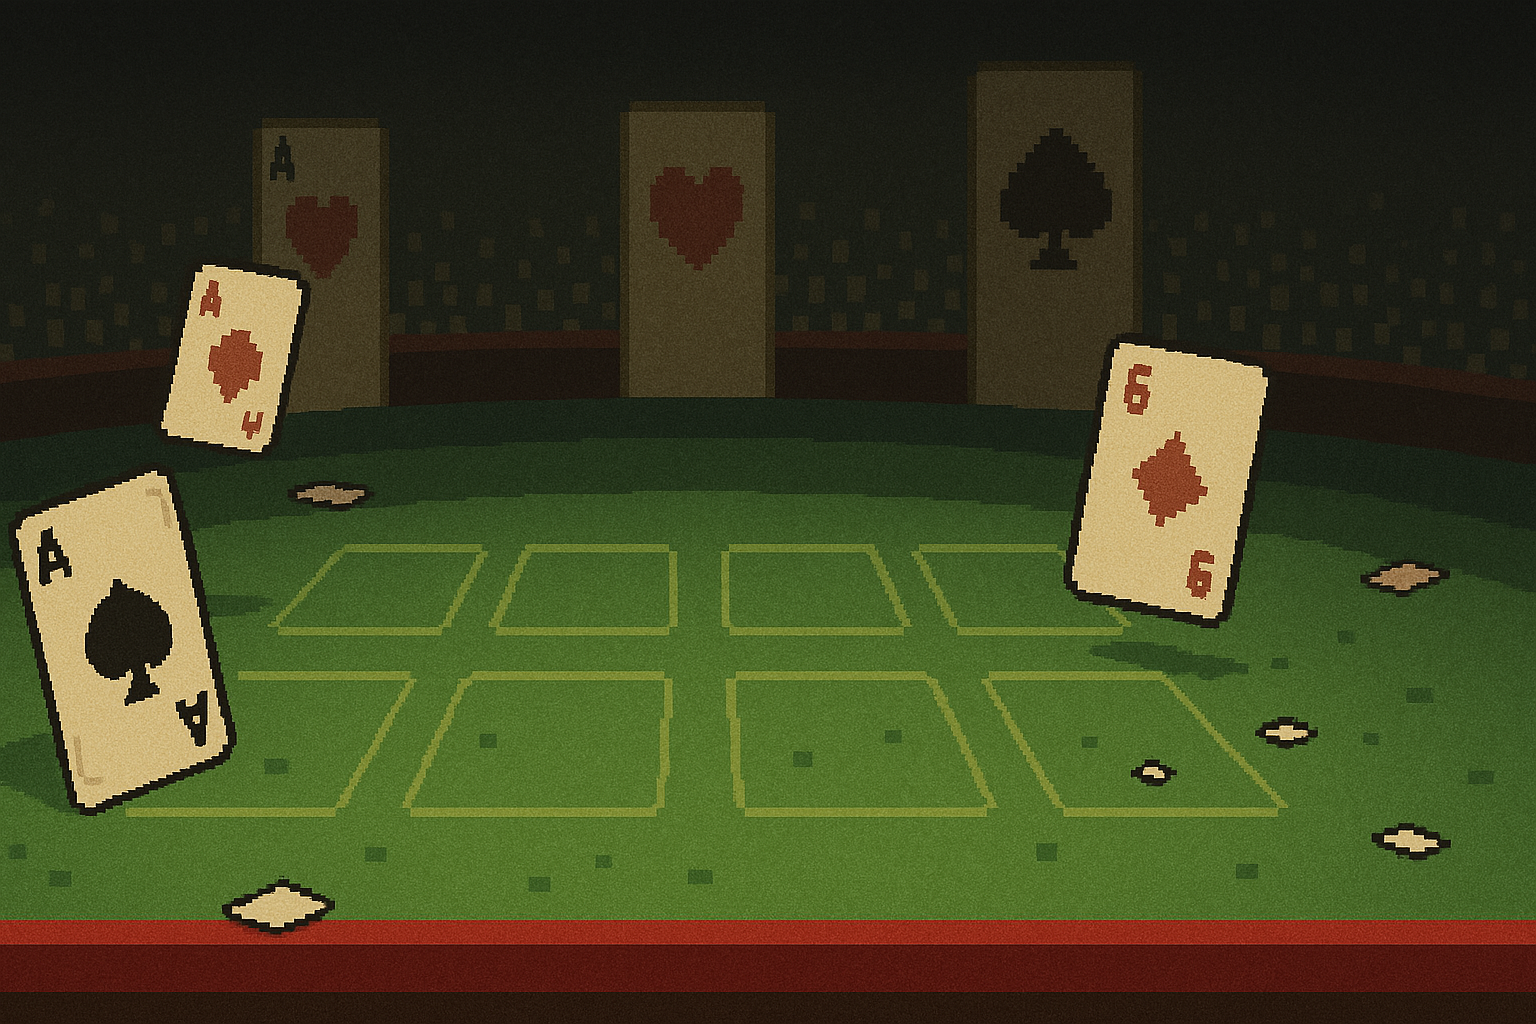
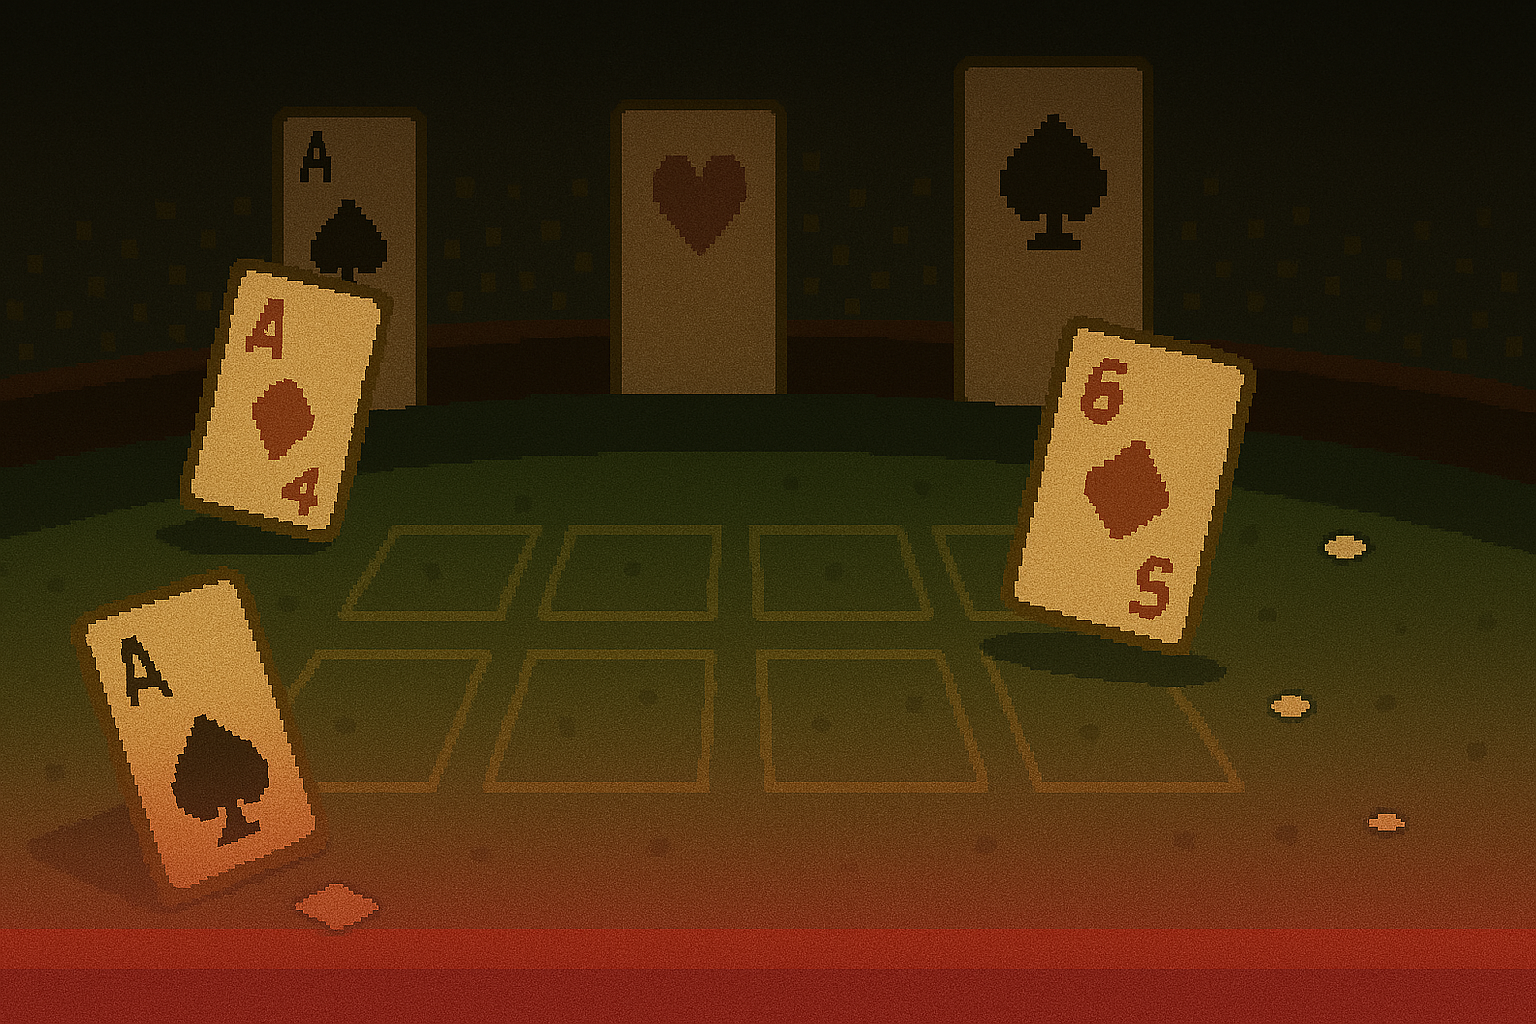
Tela RainhaCopas + TelaCoelho

diff --git a/Classes/RainhaCopas.py b/Classes/RainhaCopas.py
@@ -1,18 +1,57 @@
 from constantes import *
+from math import cos
 import pygame
 
 class RainhaCopas():
 
     def __init__(self):
-        self.image = None
-        self.pos_x = LARGURA_TELA - 100
-        self.pos_y = ALTURA_TELA - 100
+        self.image = LISTA_INVOCAR_CORACAO[2]
+        self.t0_movimento = pygame.time.get_ticks()
+        self.pos_x_inicial = LARGURA_TELA - 200
+        self.pos_x = self.pos_x_inicial
+        self.pos_y_inicial = ALTURA_TELA - 239
+        self.pos_y = self.pos_y_inicial
+        self.ataque_coracao = "Sem ataque"
+        self.t0_ataque = 0
+        self.vida = 50
+        self.dano = 1
     
     def invocar_coracoes(self):
-        pass
 
-    def invocar_cartinhas(self):
-        pass
+        if (pygame.time.get_ticks() - self.t0_ataque) %  3500 <= 250:
+            self.image = LISTA_INVOCAR_CORACAO[2]
+        elif (pygame.time.get_ticks() - self.t0_ataque) %  3500 <= 500:
+            self.image = LISTA_INVOCAR_CORACAO[2]
+        elif (pygame.time.get_ticks() - self.t0_ataque) %  3500 <= 750:
+            self.image = LISTA_INVOCAR_CORACAO[2]
+        elif (pygame.time.get_ticks() - self.t0_ataque) %  3500 <= 1000:
+            self.image = LISTA_INVOCAR_CORACAO[3]
+        elif (pygame.time.get_ticks() - self.t0_ataque) %  3500 <= 1250:
+            self.image = LISTA_INVOCAR_CORACAO[4]
+        elif (pygame.time.get_ticks() - self.t0_ataque) %  3500 <= 1500:
+            self.image = LISTA_INVOCAR_CORACAO[5]
+        elif (pygame.time.get_ticks() - self.t0_ataque) %  3500 <= 1750:
+            self.image = LISTA_INVOCAR_CORACAO[6]
+        elif (pygame.time.get_ticks() - self.t0_ataque) %  3500 <= 2000:
+            self.image = LISTA_INVOCAR_CORACAO[5]
+        elif (pygame.time.get_ticks() - self.t0_ataque) %  3500 <= 2250:
+            self.image = LISTA_INVOCAR_CORACAO[4]
+        elif (pygame.time.get_ticks() - self.t0_ataque) %  3500 <= 2500:
+            self.image = LISTA_INVOCAR_CORACAO[3]
+        elif (pygame.time.get_ticks() - self.t0_ataque) %  3500 <= 2750:
+            self.image = LISTA_INVOCAR_CORACAO[2]
+        elif (pygame.time.get_ticks() - self.t0_ataque) %  3500 <= 3000:
+            self.image = LISTA_INVOCAR_CORACAO[2]
+        elif (pygame.time.get_ticks() - self.t0_ataque) %  3500 <= 3250:
+            self.image = LISTA_INVOCAR_CORACAO[2] 
+        else:
+            self.vivo = "Sem ataque"
+            self.image = LISTA_INVOCAR_CORACAO[2]
+    
+    def movimentar(self):
+        # Figura de Lissajous:
+        self.pos_x = self.pos_x_inicial + 50*cos(1*(pygame.time.get_ticks()-self.t0_movimento)/1000)
+        self.pos_y = self.pos_y_inicial + 3*cos(2*(pygame.time.get_ticks()-self.t0_movimento)/1000)
 
     def animar_morte(self):
         pass

diff --git a/Telas/TelaRainhaCopas.py b/Telas/TelaRainhaCopas.py
@@ -1,5 +1,6 @@
 from Classes.Cartinha import Cartinha
 from Classes.Coracao import Coracao
+from Classes.RainhaCopas import RainhaCopas
 from constantes import *
 from random import randint
 
@@ -8,6 +9,7 @@ class TelaRainhaCopas():
     def __init__(self):
         self.lista_cartinhas = list()
         self.lista_coracoes = list()
+        self.rainha_copas = RainhaCopas()
         self.tela_atual = "TelaRainhaCopas"
         self.t0 = pygame.time.get_ticks()
         self.delta_t_acel = 5000
@@ -33,7 +35,7 @@ class TelaRainhaCopas():
             for _ in range(3):
                 cartinha = Cartinha()
                 cartinha.pos_x = POS_X + randint(-150, 50)
-                cartinha.pos_y = POS_Y + randint(-300, 50)
+                cartinha.pos_y = POS_Y + randint(-200, 50)
                 cartinha.velocidade_x = randint(-120, -10)
                 cartinha.velocidade_y = randint(-50, -30)
                 cartinha.movimento = "acelerando"
@@ -56,11 +58,13 @@ class TelaRainhaCopas():
 
     def gera_coracoes(self):
         if (pygame.time.get_ticks() - self.t0 - 30000) // self.delta_t_coracao > 0:
-            for _ in range(7):
+            for _ in range(12):
                 coracao = Coracao()
-                coracao.pos_y = randint(-200, -30)
+                coracao.pos_y = randint(-700, -400)
                 coracao.pos_x = randint(50, LARGURA_TELA - 100)
                 self.lista_coracoes.append(coracao)
+                self.rainha_copas.ataque_coracao = "Atacando"
+                self.rainha_copas.t0_ataque = pygame.time.get_ticks()
 
             self.delta_t_coracao += 4000
 
@@ -70,10 +74,12 @@ class TelaRainhaCopas():
         window.blit(IMAGEM_FUNDO_RAINHA_COPAS, (0, 0))
         
         for cartinha in self.lista_cartinhas:
-            window.blit(cartinha.image, (cartinha.pos_x, cartinha.pos_y))
+            cartinha.desenhar(window)
         
         for coracao in self.lista_coracoes:
-            window.blit(coracao.image, (coracao.pos_x, coracao.pos_y))
+            coracao.desenhar(window)
+        
+        self.rainha_copas.desenhar(window)
 
         pygame.display.flip()
     
@@ -121,6 +127,11 @@ class TelaRainhaCopas():
                 self.lista_cartinhas[1].t0_morte = pygame.time.get_ticks()
 
                 self.delta_t_remove += 10000
+        
+        if self.rainha_copas.ataque_coracao == "Atacando":
+            self.rainha_copas.invocar_coracoes()
+        
+        self.rainha_copas.movimentar()
 
         return True
     

diff --git a/Classes/Cartinha.py b/Classes/Cartinha.py
@@ -6,7 +6,6 @@ class Cartinha():
     
     def __init__(self):
         self.t0 = pygame.time.get_ticks()
-        self.imagens = LISTA_IMAGENS_CARTINHA
         self.image = LISTA_IMAGENS_CARTINHA[0]
         self.masks = MASKS_CARTINHA
         self.movimento = None
@@ -46,14 +45,14 @@ class Cartinha():
             self.pos_x = LARGURA_TELA - 65
             self.velocidade_x = 0
 
-        if 10 < self.pos_y < ALTURA_TELA - 64:
+        if 10 < self.pos_y < ALTURA_TELA - 100:
             self.pos_y += self.velocidade_y * self.delta_t
             self.velocidade_y += self.aceleracao_y * self.delta_t
         elif self.pos_y <= 10:
             self.pos_y = 11
             self.velocidade_y = 0
-        elif self.pos_y >= ALTURA_TELA - 64:
-            self.pos_y = ALTURA_TELA - 65
+        elif self.pos_y >= ALTURA_TELA - 100:
+            self.pos_y = ALTURA_TELA - 101
             self.velocidade_y = 0
 
         self.t0 = self.t1
@@ -82,13 +81,13 @@ class Cartinha():
             self.pos_x = LARGURA_TELA - 65
             self.velocidade_x = 0
 
-        if 10 < self.pos_y < ALTURA_TELA - 64:
+        if 10 < self.pos_y < ALTURA_TELA - 100:
             self.pos_y += self.velocidade_y * self.delta_t
         elif self.pos_y <= 10:
             self.pos_y = 11
             self.velocidade_y = 0
-        elif self.pos_y >= ALTURA_TELA - 64:
-            self.pos_y = ALTURA_TELA - 65
+        elif self.pos_y >= ALTURA_TELA - 100:
+            self.pos_y = ALTURA_TELA - 101
             self.velocidade_y = 0
 
         self.t0 = self.t1
@@ -124,11 +123,11 @@ class Cartinha():
             self.image = LISTA_EXPLOSAO_CARTINHA[4]
             self.image = pygame.transform.rotate(self.image, self.angulo)
         elif (pygame.time.get_ticks() - self.t0_morte) %  2800 <= 2400:
-            self.image = LISTA_EXPLOSAO_CARTINHA[5]
+            self.image = LISTA_EXPLOSAO_CARTINHA[5] 
             self.image = pygame.transform.rotate(self.image, self.angulo)
         else:
             self.vivo = "Morto"
     
 
     def desenhar(self, window):
-        window.blit(self.image, (self.pos_x, self.pos_y))
+        window.blit(self.image, (self.pos_x, self.pos_y))  

diff --git a/constantes.py b/constantes.py
@@ -38,7 +38,32 @@ LISTA_EXPLOSAO_CARTINHA  = [
     pygame.transform.scale(pygame.image.load(os.path.join("Assets\Imagens","Explosao_Cartinha_06.png")), (32, 48)),
 ]
 
-IMAGEM_FUNDO_RAINHA_COPAS = pygame.transform.scale(pygame.image.load(os.path.join("Assets\Imagens","Fundo_Rainha_Copas.png")), (LARGURA_TELA, ALTURA_TELA))
+IMAGEM_FUNDO_RAINHA_COPAS = pygame.transform.scale(pygame.image.load(os.path.join("Assets\Imagens","Fundo_Rainha_Copas_4.png")), (LARGURA_TELA, ALTURA_TELA))
+
+IMAGEM_FUNDO_COELHO = pygame.transform.scale(pygame.image.load(os.path.join("Assets\Imagens","Fundo_Coelho.png")), (LARGURA_TELA, ALTURA_TELA))
+
+RAINHA_COPAS = pygame.transform.scale(pygame.image.load(os.path.join("Assets\Imagens","Rainha_Copas.png")), (128, 192))
+
+LISTA_INVOCAR_CORACAO  = [
+    pygame.transform.scale(pygame.image.load(os.path.join("Assets\Imagens","Invocar_Coracao_01.png")), (128, 192)),
+    pygame.transform.scale(pygame.image.load(os.path.join("Assets\Imagens","Invocar_Coracao_02.png")), (128, 192)),
+    pygame.transform.scale(pygame.image.load(os.path.join("Assets\Imagens","Invocar_Coracao_03.png")), (128, 192)),
+    pygame.transform.scale(pygame.image.load(os.path.join("Assets\Imagens","Invocar_Coracao_04.png")), (128, 192)),
+    pygame.transform.scale(pygame.image.load(os.path.join("Assets\Imagens","Invocar_Coracao_05.png")), (128, 192)),
+    pygame.transform.scale(pygame.image.load(os.path.join("Assets\Imagens","Invocar_Coracao_06.png")), (128, 192)),
+    pygame.transform.scale(pygame.image.load(os.path.join("Assets\Imagens","Invocar_Coracao_07.png")), (128, 192)),
+]
+
+LISTA_COELHO_CORRENDO  = [
+    pygame.transform.scale(pygame.image.load(os.path.join("Assets\Imagens","Coelho_Correndo_02.png")), (128, 128)),
+    pygame.transform.scale(pygame.image.load(os.path.join("Assets\Imagens","Coelho_Correndo_03.png")), (128, 128)),
+]
+
+LISTA_COELHO_PULANDO  = [
+    pygame.transform.scale(pygame.image.load(os.path.join("Assets\Imagens","Coelho_Pulando_01.png")), (128, 128)),
+    pygame.transform.scale(pygame.image.load(os.path.join("Assets\Imagens","Coelho_Pulando_02.png")), (128, 128)),
+]
+
 
 POS_X = 700
 POS_Y = 500

diff --git a/Classes/Coelho.py b/Classes/Coelho.py
@@ -1,0 +1,60 @@
+from constantes import *
+from math import sqrt, atan, degrees
+
+class Coelho():
+    
+    def __init__(self):
+        self.pos_x = 20
+        self.pos_y_inicial = self.pos_y = ALTURA_TELA - 235
+        self.t0 = self.t0_inicio = self.t0_pulo = pygame.time.get_ticks()
+        self.pulo = False
+        self.velocidade_x = 70
+        self.velocidade_y = -50
+        self.aceleracao_y = 30
+
+    def movimentar(self):
+        self.t1 = pygame.time.get_ticks()
+        self.dt = (self.t1 - self.t0)/1000
+
+        self.pos_x += self.velocidade_x * self.dt
+
+        self.t0 = self.t1
+    
+    def animar(self):
+
+        if (pygame.time.get_ticks() - self.t0_inicio) %  500 <= 250:
+            self.image = LISTA_COELHO_CORRENDO[0]
+        elif (pygame.time.get_ticks() - self.t0_inicio) %  500 <= 500:
+            self.image = LISTA_COELHO_CORRENDO[1]
+
+
+    def pular(self):
+
+        self.t1 = pygame.time.get_ticks()
+        self.dt_pulo = (self.t1 - self.t0_pulo)/1000
+
+        self.velocidade_y += self.aceleracao_y * self.dt_pulo
+        self.pos_y += self.velocidade_y * self.dt_pulo
+
+        if self.pos_y > self.pos_y_inicial - 30:
+            self.velocidade_x = 40
+            self.image.set_alpha(255- self.i**2)
+            self.i += 1
+        else:
+            self.image = LISTA_COELHO_PULANDO[0]
+            self.angulo = degrees(atan(self.velocidade_x/sqrt(self.velocidade_x**2 + self.velocidade_y**2)))
+            self.image = pygame.transform.rotate(self.image, self.angulo)
+        
+        if self.pos_y > LARGURA_TELA + 10:
+            self.pos_y = LARGURA_TELA + 10
+            self.velocidade_y = 0
+            self.aceleracao_y = 0
+
+        self.t0_pulo = self.t1
+
+
+    def desenhar(self, window):
+        window.blit(self.image, (self.pos_x, self.pos_y))
+
+
+

diff --git a/Telas/TelaCoelho.py b/Telas/TelaCoelho.py
@@ -1,0 +1,55 @@
+import pygame
+from constantes import *
+from Classes.Coelho import Coelho
+
+class TelaCoelho():
+
+    def __init__(self):
+        self.tela_atual = "TelaCoelho"
+        self.coelho = Coelho()
+        self.t0 = pygame.time.get_ticks()
+
+
+    def inicializa(self):
+        pygame.init()
+
+        # info = pygame.display.Info()
+        # largura, altura = info.current_w, info.current_h
+        # window = pygame.display.set_mode((largura, altura), pygame.FULLSCREEN)
+
+        window = pygame.display.set_mode((LARGURA_TELA, ALTURA_TELA))
+ 
+        return window
+
+
+    def desenha(self, window):
+        window.fill(BRANCO)
+        window.blit(IMAGEM_FUNDO_COELHO, (0, 0))
+
+        self.coelho.desenhar(window)
+
+        pygame.display.flip()
+    
+
+    def atualiza_estado(self):
+        for evento in pygame.event.get():
+            if evento.type == pygame.QUIT:
+                return False
+        
+        self.coelho.movimentar()
+
+        if self.coelho.pos_x > 260 and not self.coelho.pulo:
+            self.coelho.pulo = True
+            self.coelho.pos_y -= 30
+            self.coelho.i = 0
+            self.coelho.t0_pulo = pygame.time.get_ticks()
+
+        if not self.coelho.pulo:
+            self.coelho.animar()
+        else:
+            self.coelho.pular()
+
+
+        return True
+    
+    

diff --git a/Telas/Jogo.py b/Telas/Jogo.py
@@ -1,9 +1,10 @@
 from Telas.TelaRainhaCopas import TelaRainhaCopas
+from Telas.TelaCoelho import TelaCoelho
 
 
 class Jogo():
     def __init__(self):
-        self.tela_atual = "TelaRainhaCopas"
+        self.tela_atual = "TelaCoelho"
 
 
     def inicializa(self):
@@ -16,3 +17,14 @@ class Jogo():
                 if rainha_copas.tela_atual != "TelaRainhaCopas":
                     self.tela_atual = rainha_copas.tela_atual
                     break
+
+        if self.tela_atual == "TelaCoelho":
+            tela_coelho = TelaCoelho()
+            window = tela_coelho.inicializa()
+            while tela_coelho.atualiza_estado():
+                tela_coelho.desenha(window)
+                if tela_coelho.tela_atual != "TelaCoelho":
+                    self.tela_atual = tela_coelho.tela_atual
+                    break
+        
+
